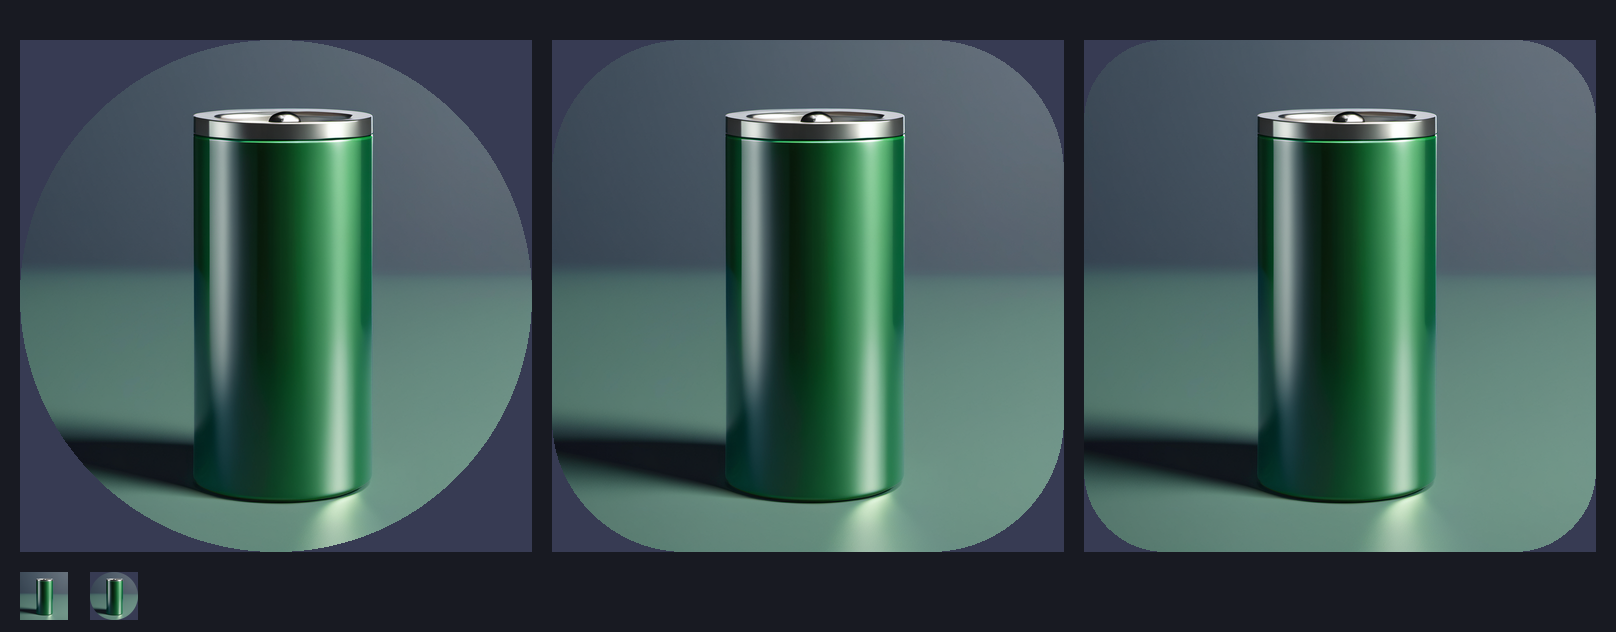
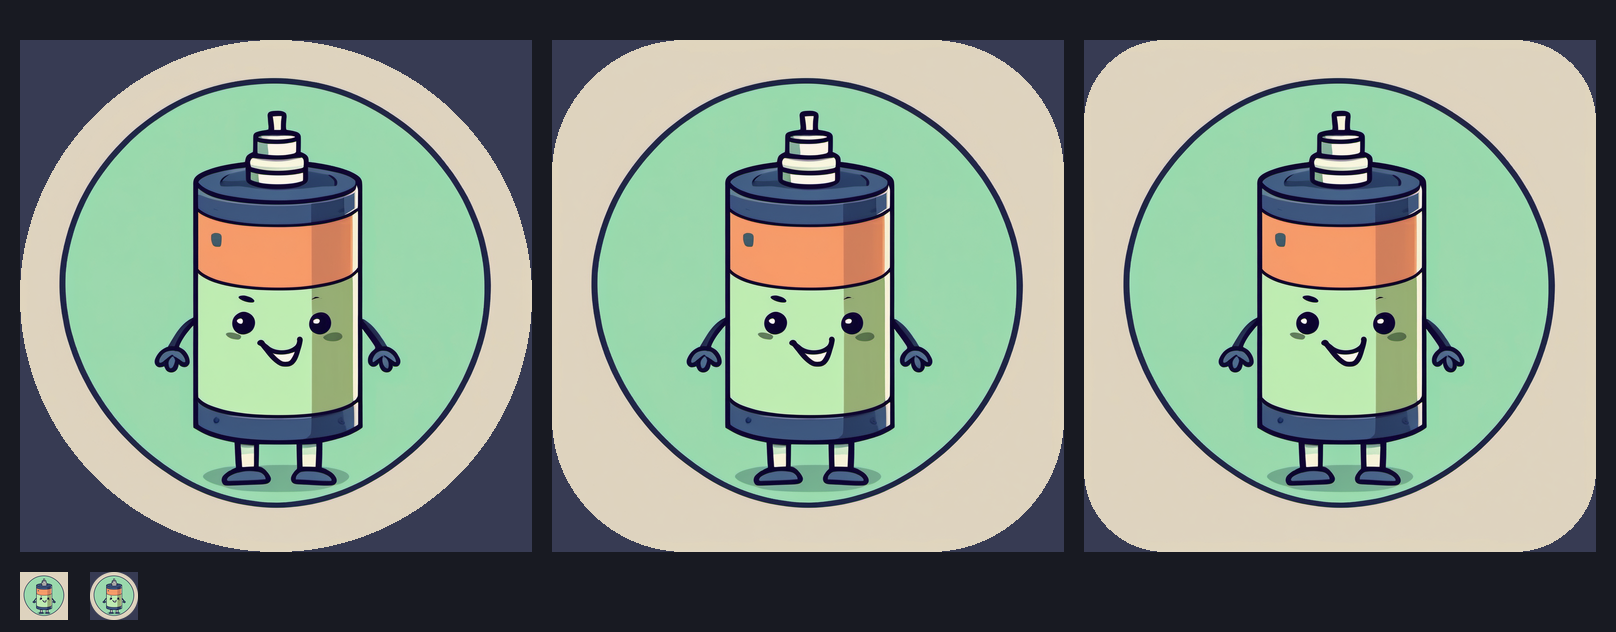
v1.0.3 : icone cartoon (personnage pile)

diff --git a/outils/icone/planche3.py b/outils/icone/planche3.py
@@ -1,0 +1,25 @@
+
+from PIL import Image, ImageDraw, ImageStat
+import pathlib
+d = pathlib.Path("/root/projects/batteryhub/outils/icone/brut3")
+fs = sorted(d.glob("candidat-*.png"))
+t = 320
+planche = Image.new("RGB", (t*3 + 40, (t+30)*2 + 20), (20,22,28))
+dr = ImageDraw.Draw(planche)
+def moy(im): return ImageStat.Stat(im).mean
+for i, f in enumerate(fs):
+    im = Image.open(f).convert("RGB")
+    planche.paste(im.resize((t,t), Image.LANCZOS), (10 + (i%3)*(t+10), 10 + (i//3)*(t+30)))
+    dr.text((11 + (i%3)*(t+10), 16 + (i//3)*(t+30) + t - 4), f"candidat {i+1}", fill=(255,255,255))
+    p = im.resize((256,256))
+    w,h = p.size
+    coins = [p.crop((0,0,40,40)), p.crop((w-40,0,w,40)), p.crop((0,h-40,40,h)), p.crop((w-40,h-40,w,h))]
+    fond = [moy(c) for c in coins]
+    var = sum(abs(fond[k][0]-fond[0][0])+abs(fond[k][1]-fond[0][1])+abs(fond[k][2]-fond[0][2]) for k in range(4))/4
+    centre = moy(p.crop((w//3,h//4,2*w//3,3*h//4)))
+    bord = sum(sum(c)/3 for c in fond)/4
+    contr = abs(sum(centre)/3 - bord)
+    sat = moy(p.convert("HSV").split()[1])[0]
+    print("candidat %d  fond_var=%5.1f contraste=%5.1f sat=%5.1f fond=%s" % (i+1, var, contr, sat, [round(x) for x in fond[0]]))
+planche.save("/root/projects/batteryhub/docs/captures/icone-cartoon-candidats.png")
+print("planche ok")

diff --git a/outils/icone/apercu.py b/outils/icone/apercu.py
@@ -1,7 +1,7 @@
 
 from PIL import Image, ImageDraw
 import pathlib
-src = Image.open("/root/projects/batteryhub/outils/icone/brut2/candidat-4-seed132864093.png").convert("RGB")
+src = Image.open("/root/projects/batteryhub/outils/icone/brut3/candidat-4-seed133069184.png").convert("RGB")
 fond = (0x37, 0x3B, 0x53)
 taille = 512
 base = src.resize((taille, taille), Image.LANCZOS)
